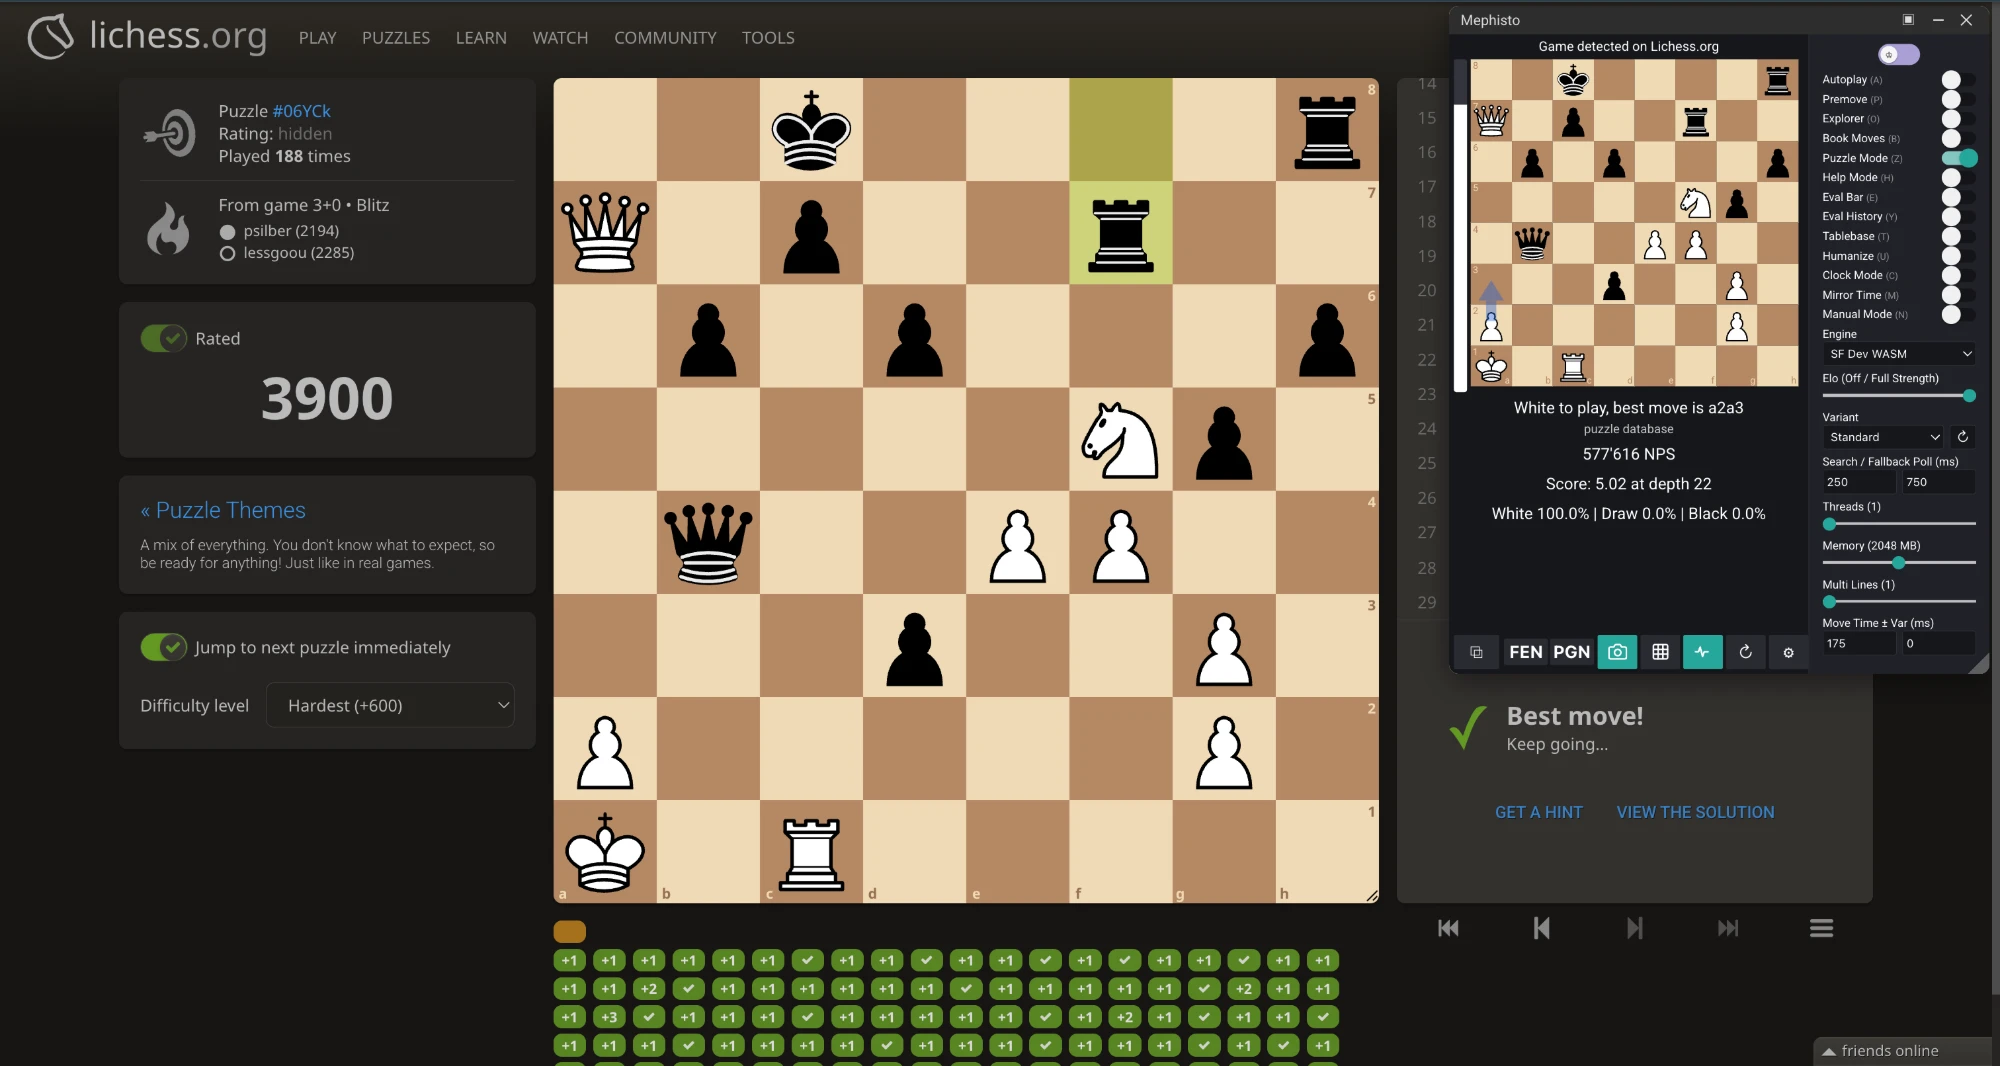
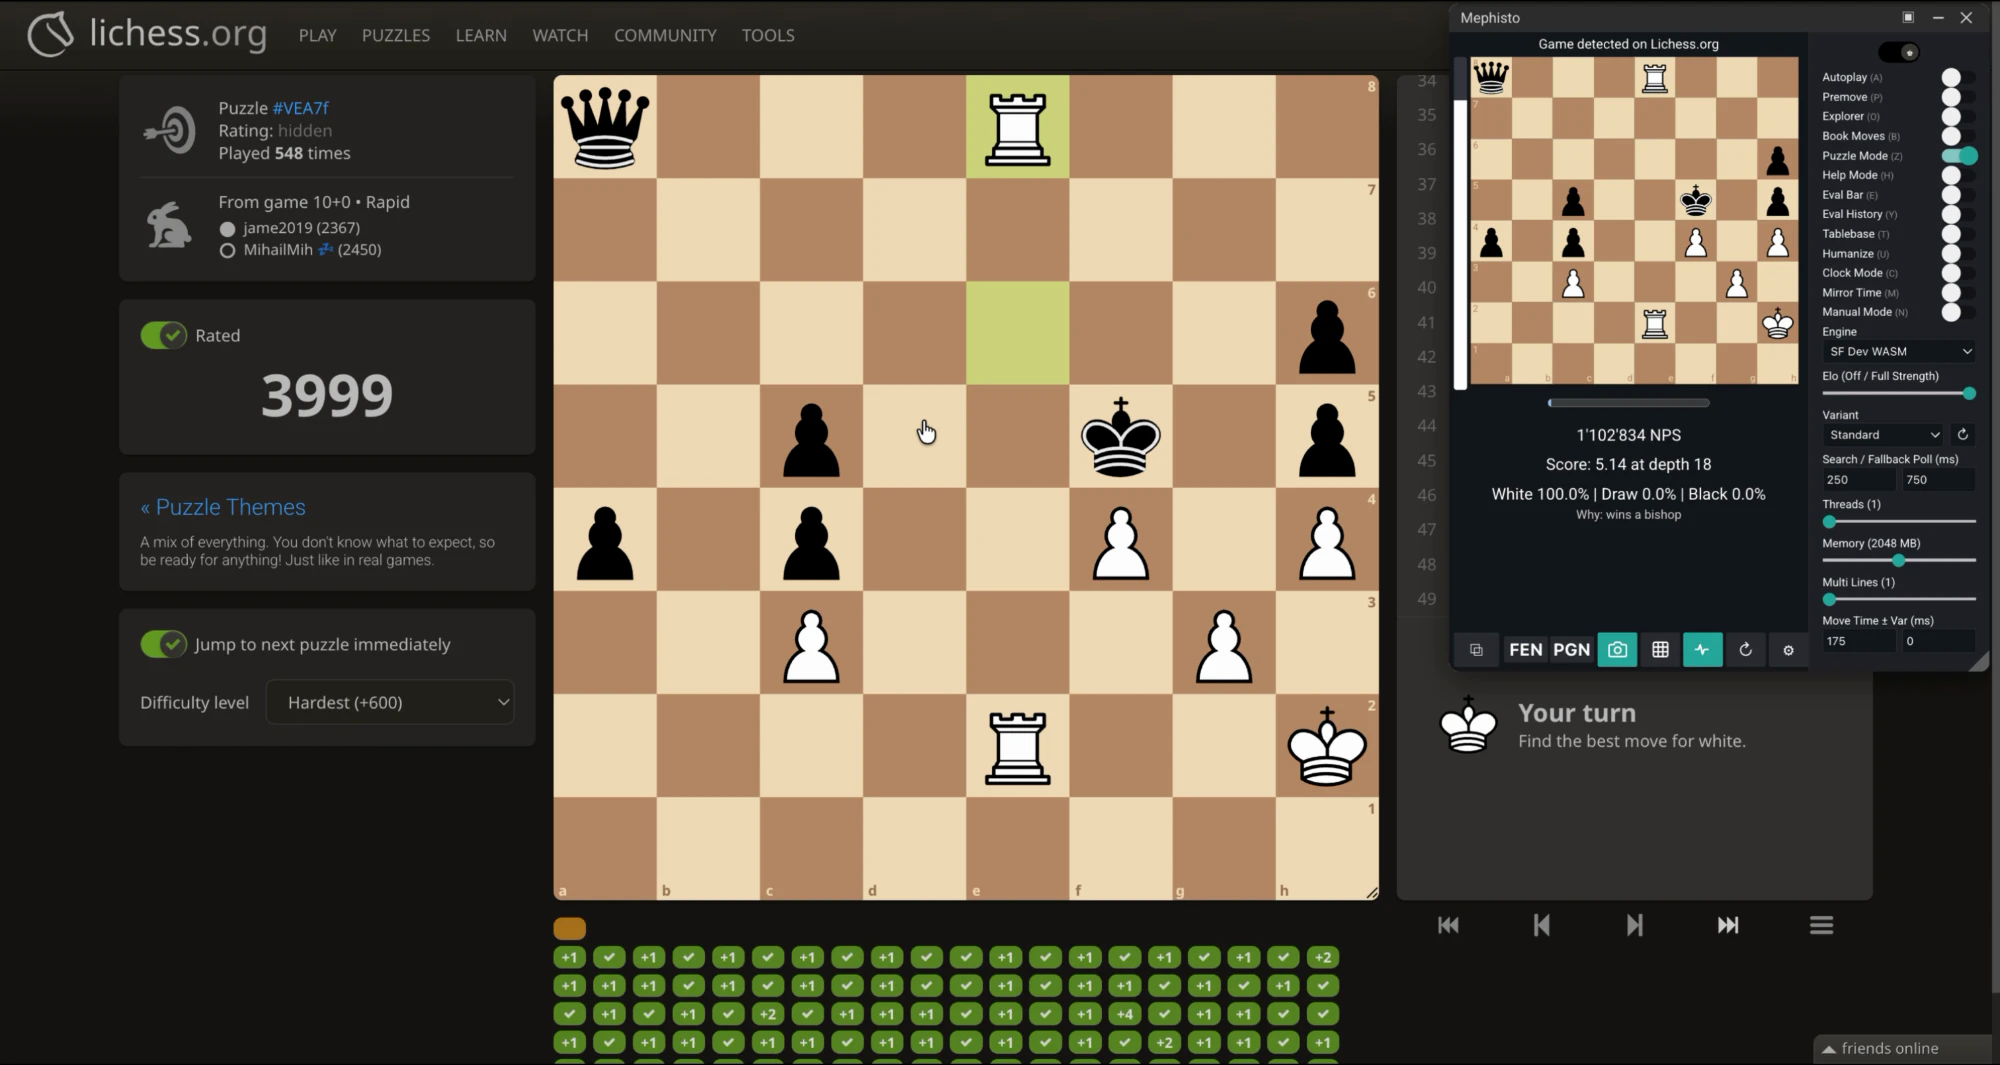
README: the 3999 shot, and put the gif on this branch too
3999 is where the Lichess puzzle rating stops, so it is the better still than the
~3900 one it replaces. It also happens to show Explain Moves working ("Why: wins
a bishop") alongside the database move.

Also lands docs/puzzle-database.gif here: the previous commit staged it while
master was checked out, so the gif and the README that references it went to
master alone and the two branches drifted. They are back in step.

diff --git a/README.md b/README.md
@@ -482,10 +482,13 @@ Both also size the engine's search to the time they'll spend, so the wait become
 
 ### Puzzle database
 
-![A 3900-rated Lichess puzzle solved from the database — the readout names its source](docs/puzzle-database.png)
+![3999 — as high as the Lichess puzzle rating goes](docs/puzzle-database.png)
 
-*[Watch it run](docs/puzzle-database.mp4) — a minute and a half of Hardest (+600) puzzles at ~3900, solved from
-the database rather than searched. (GitHub plays it in the file view; it will not autoplay inline here.)*
+*3999 is the ceiling: there is no higher number Lichess will show you.*
+
+![Hardest (+600) puzzles solved back to back, from the database rather than searched](docs/puzzle-database.gif)
+
+*[The full clip](docs/puzzle-database.mp4) runs a minute and a half at higher quality.*
 
 Puzzle Mode plays a searched move, and a searched move is not always the puzzle's answer — a puzzle has exactly one
 line that scores, and an objectively stronger move still fails it. Import Lichess's puzzle database and the panel
